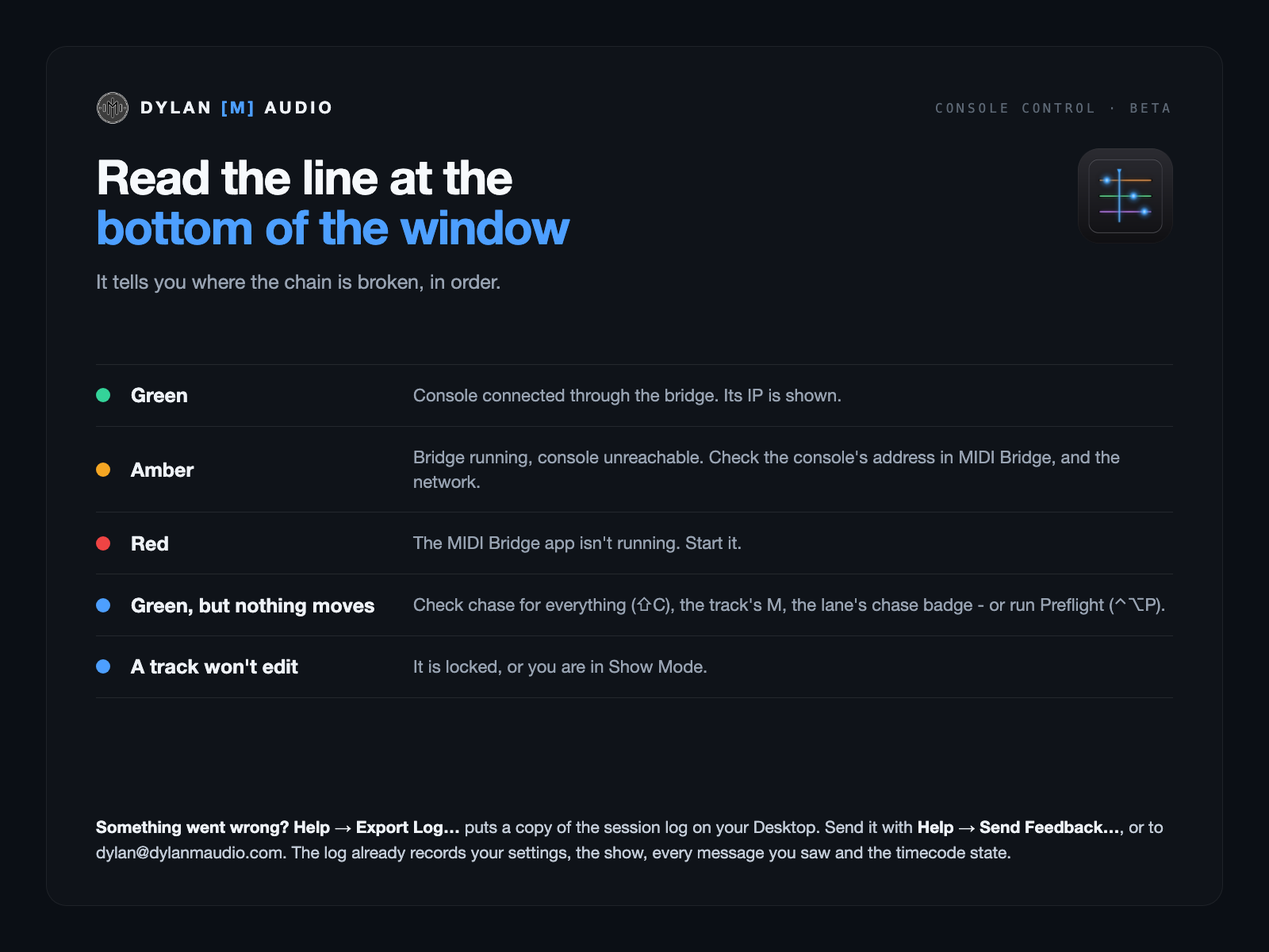
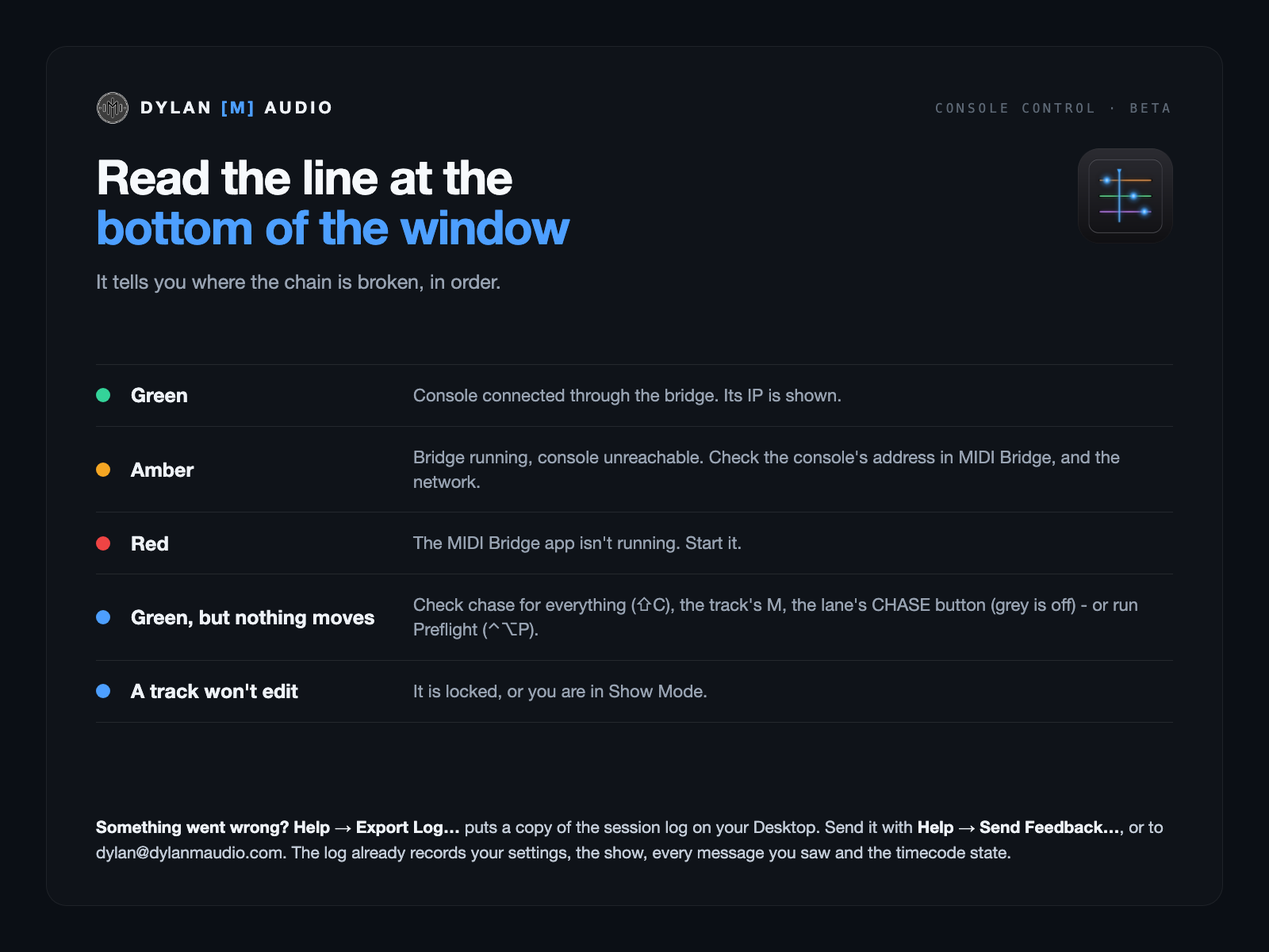
/cc-beta at 0.3.12: what's new since 0.3.10, the 0.3.12 guides and the beta manifest
0.3.12 went to the testers on 29 Oct (the apps repo, d2e2bb33).

Changed region(s): [[0.0625, 0.6167, 0.3125, 0.74], [0.3125, 0.6475, 0.5625, 0.74], [0.6875, 0.6167, 0.9062, 0.6475]]

diff --git a/cc-beta/index.html b/cc-beta/index.html
@@ -222,7 +222,7 @@
       <img src="/assets/console-control.png" alt="Console Control app icon" width="72" height="72" />
       <div>
         <h1>Console Control</h1>
-        <div class="p-badges"><span class="tag">Beta &middot; 0.3.11</span></div>
+        <div class="p-badges"><span class="tag">Beta &middot; 0.3.12</span></div>
       </div>
     </div>
     <p class="p-tagline">Complete console automation, locked to timecode. Free to try until 30 November 2026.</p>
@@ -247,12 +247,12 @@
     <ul class="feature-list"><li><span class="ck"><svg viewBox="0 0 24 24" stroke-linecap="round" stroke-linejoin="round"><path d="M20 6 9 17l-5-5"/></svg></span><span>Fader, mute, Scene, Action and send cues on a timeline, locked to LTC or MTC</span></li><li><span class="ck"><svg viewBox="0 0 24 24" stroke-linecap="round" stroke-linejoin="round"><path d="M20 6 9 17l-5-5"/></svg></span><span>Import a live recording and every track lands at its real timecode — a whole set in under a minute</span></li><li><span class="ck"><svg viewBox="0 0 24 24" stroke-linecap="round" stroke-linejoin="round"><path d="M20 6 9 17l-5-5"/></svg></span><span>A tempo map from your click in seconds; snap cues to the beat</span></li><li><span class="ck"><svg viewBox="0 0 24 24" stroke-linecap="round" stroke-linejoin="round"><path d="M20 6 9 17l-5-5"/></svg></span><span>Your console's own Scene names, channel names and colours</span></li><li><span class="ck"><svg viewBox="0 0 24 24" stroke-linecap="round" stroke-linejoin="round"><path d="M20 6 9 17l-5-5"/></svg></span><span>Chase: locate anywhere and the console conforms</span></li><li><span class="ck"><svg viewBox="0 0 24 24" stroke-linecap="round" stroke-linejoin="round"><path d="M20 6 9 17l-5-5"/></svg></span><span>Preflight before doors, Show Mode during, Panic always</span></li><li><span class="ck"><svg viewBox="0 0 24 24" stroke-linecap="round" stroke-linejoin="round"><path d="M20 6 9 17l-5-5"/></svg></span><span>Works with MIDI Bridge, Time Code Tool and your Stream Deck</span></li></ul>
     <div class="side" style="margin-top:24px;">
       <div class="h">// The beta</div>
-      <div class="srow"><span class="k">Version</span><span class="v">0.3.11 BETA</span></div><div class="srow"><span class="k">Beta until</span><span class="v">30 November 2026</span></div><div class="srow"><span class="k">Price</span><span class="v">Free during the beta</span></div><div class="srow"><span class="k">Platform</span><span class="v">macOS 11+</span></div><div class="srow"><span class="k">Chip</span><span class="v">Apple Silicon &amp; Intel</span></div><div class="srow"><span class="k">Console</span><span class="v">dLive &middot; SQ &middot; Wing &middot; DiGiCo SD</span></div><div class="srow"><span class="k">Needs</span><span class="v">MIDI Bridge 1.5 beta, a second download with this one</span></div><div class="srow"><span class="k">Stream Deck</span><span class="v"><a href="/products/companion/" style="color:var(--blue)">via Companion</a></span></div>
+      <div class="srow"><span class="k">Version</span><span class="v">0.3.12 BETA</span></div><div class="srow"><span class="k">Beta until</span><span class="v">30 November 2026</span></div><div class="srow"><span class="k">Price</span><span class="v">Free during the beta</span></div><div class="srow"><span class="k">Platform</span><span class="v">macOS 11+</span></div><div class="srow"><span class="k">Chip</span><span class="v">Apple Silicon &amp; Intel</span></div><div class="srow"><span class="k">Console</span><span class="v">dLive &middot; SQ &middot; Wing &middot; DiGiCo SD</span></div><div class="srow"><span class="k">Needs</span><span class="v">MIDI Bridge 1.5 beta, a second download with this one</span></div><div class="srow"><span class="k">Stream Deck</span><span class="v"><a href="/products/companion/" style="color:var(--blue)">via Companion</a></span></div>
     </div>
   </div>
 </div></section>
 
-<section class="lf"><div class="wrap"><div class="lf-block" id="new"><div class="kicker p-sec-k"><span class="tick">//</span>&nbsp; New in 0.3.11</div><p>Since 0.3.10, the build the testers had before. The full list comes with the download.</p><div class="lf-item"><h3>Four consoles: the dLive, the SQ, the Wing and the DiGiCo SD.</h3><p>Choose the console in Settings &rarr; MIDI &rarr; Console, with the MIDI Bridge 1.5 beta (a second download with this one) set to the same one. On the SQ: faders, mutes, sends and scene recalls, with names and colours from Sync from Console. On the Wing: faders, mutes, sends to buses and Scene recalls. On the SD: faders, mutes, sends to auxes, snapshots recalled by the number on the desk&rsquo;s screen, and a Macros track that fires the desk&rsquo;s macros by name. The Reference Manual has the details for each.</p></div><div class="lf-item"><h3>Pan, filter and EQ lanes on the Wing and the SD.</h3><p>Right-click a Wing channel or an SD input &rarr; <b>Add pan, filter and EQ lanes&hellip;</b> for pan, HPF and LPF (in / out and frequency) and each EQ band&rsquo;s gain, frequency and Q, in the console&rsquo;s own ranges.</p></div><div class="lf-item"><h3>Stop no longer replays the show.</h3><p>With &ldquo;Stop returns to where play started&rdquo; on, a Stop could send every cue from the start of the show at once. Opening a menu in Show Mode no longer holds the cues back, and Panic and Stop stay stopped with &ldquo;Start on valid timecode when stopped&rdquo; on.</p></div><div class="lf-item"><h3>LTC chase picks the code up again.</h3><p>When the timecode stops for a moment or jumps, chase catches it within about a second of its return, instead of waiting for Stop and Play.</p></div><div class="lf-item"><h3>And smaller fixes.</h3><p><kbd>⌘A</kbd> works in text fields; a decimal Scene number is refused instead of rounded; a conform sends each mute once; a cue inserted from a dialog lands where you opened it.</p></div></div><div class="lf-block" id="start"><div class="kicker p-sec-k"><span class="tick">//</span>&nbsp; Your first session, in eight steps</div><p>Twenty minutes at the desk, or at home with a show recording. Nothing reaches the console until the bridge line is green.</p><ol class="lf-steps"><li><h3>Start MIDI Bridge</h3><p>The 1.5 beta, a second download with this one, set to your console. Console Control talks to the console through it. Wait for the green line at the bottom of the window.</p></li><li><h3>Choose the console</h3><p>Settings (<kbd>⌘,</kbd>) &rarr; MIDI &rarr; Console: the desk MIDI Bridge is set to. On a dLive, match the base MIDI channel too &mdash; the same number as Utility &rarr; Control &rarr; MIDI on the console.</p></li><li><h3>Add your tracks</h3><p><b>+ Track</b>, pick a type and a range. &ldquo;1-16&rdquo; makes sixteen input tracks in one step.</p></li><li><h3>Bring in the console&rsquo;s names</h3><p>Sync from Console (<kbd>⌃⌥R</kbd>) for channel names and colours, straight from the desk. File &rarr; Import Console Show File for a dLive&rsquo;s Scene names and Actions.</p></li><li><h3>Import a show recording</h3><p><kbd>⌘I</kbd>. With an LTC track present, every song is placed at its own timecode and outlined as a region.</p></li><li><h3>Place cues</h3><p>Select a track, then <kbd>U</kbd>, <kbd>I</kbd> or <kbd>V</kbd> for fader cues, <kbd>M</kbd> for mute, <kbd>S</kbd> for a Scene, <kbd>A</kbd> for an Action.</p></li><li><h3>Run Preflight</h3><p><kbd>⌃⌥P</kbd> checks the bridge, the base channel, chase and routing, and says exactly what is wrong.</p></li><li><h3>Arm SYNC, press play</h3><p>The timeline waits for timecode and follows it when it locks. Then <kbd>⌘⇧L</kbd> for Show Mode.</p></li></ol></div><div class="lf-block"><div class="kicker p-sec-k"><span class="tick">//</span>&nbsp; Four ideas that explain everything else</div><p>If the app ever surprises you, it is almost always one of these.</p><div class="lf-item"><h3>Time, not bars &mdash; cues sit at a timecode position.</h3><p>Live shows drift, drop the click and vamp. Tempo exists only for beat snapping and the grid &mdash; the ruler is always time.</p></div><div class="lf-item"><h3>Chase &mdash; move the playhead and the desk follows.</h3><p>Scrub, locate or play: every lane&rsquo;s value at that position is worked out and sent. Chase can be switched off for everything (<kbd>⇧C</kbd>) or per lane (<kbd>C</kbd>).</p></div><div class="lf-item"><h3>Fired vs pending &mdash; plain text was sent, a dot was not.</h3><p>A dot beside a readout means &ldquo;the console should be here, but it hasn&rsquo;t been sent&rdquo;. Conform Console sends everything pending in one pass.</p></div><div class="lf-item"><h3>One console path &mdash; everything goes through MIDI Bridge.</h3><p>Console Control never opens its own connection to the desk, so your DAW, Companion and the other apps keep working beside it.</p></div></div><div class="lf-block"><div class="kicker p-sec-k"><span class="tick">//</span>&nbsp; SYNC arms, play latches, stop disarms</div><p>The button beside Record. Always this way round &mdash; a show never latches on its own when it opens.</p><div class="states"><div class="state"><span class="dot" style="background:var(--dim)"></span><span class="l">Dimmed</span><span class="d">Sync off. Internal clock, for programming and loop playback.</span></div><div class="state"><span class="dot" style="background:#6f93b8"></span><span class="l">Lit steel-blue</span><span class="d">Armed. Press play to latch.</span></div><div class="state"><span class="dot" style="background:var(--amber)"></span><span class="l">Pulsing amber</span><span class="d">Play pressed, awaiting timecode.</span></div><div class="state"><span class="dot" style="background:var(--green)"></span><span class="l">Green</span><span class="d">Locked to incoming timecode. Locate and scrub belong to the source.</span></div><div class="state"><span class="dot" style="background:var(--amber)"></span><span class="l">Steady amber</span><span class="d">Freewheeling &mdash; the signal dropped and the timeline is coasting.</span></div></div><p><b>Right-click SYNC</b> for the source (LTC or MTC), the LTC input channel, the MTC port, freewheel time, drift tolerance and offset. <b>Still pulsing while code plays?</b> It is listening to the wrong input.</p></div><div class="lf-block" id="keys"><div class="kicker p-sec-k"><span class="tick">//</span>&nbsp; The keys worth learning first</div><p>Every shortcut can be changed in Help &rarr; Keyboard Shortcuts (<kbd>⌃⌥K</kbd>): click one and press the keys you want. Hover over any button to see its key. All of them are in the <a href="/guides/console-control-quick-reference.pdf" target="_blank" rel="noopener">Quick Reference</a>.</p><div class="keys"><div class="key"><div class="c"><kbd>Space</kbd></div><div class="a">Play / stop</div></div><div class="key"><div class="c"><kbd>⌘⇧Esc</kbd></div><div class="a">Panic</div></div><div class="key"><div class="c"><kbd>⌘⇧L</kbd></div><div class="a">Show Mode</div></div><div class="key"><div class="c"><kbd>⌃⌥C</kbd></div><div class="a">Conform Console</div></div><div class="key"><div class="c"><kbd>⌃⌥P</kbd></div><div class="a">Preflight</div></div><div class="key"><div class="c"><kbd>⌃⌥R</kbd></div><div class="a">Sync from Console</div></div><div class="key"><div class="c"><kbd>U</kbd><kbd>I</kbd><kbd>V</kbd></div><div class="a">Fader cue: unity / &minus;&infin; / a value</div></div><div class="key"><div class="c"><kbd>M</kbd><kbd>⇧M</kbd></div><div class="a">Mute / unmute cue</div></div><div class="key"><div class="c"><kbd>S</kbd><kbd>A</kbd></div><div class="a">Scene / Action cue</div></div><div class="key"><div class="c"><kbd>C</kbd><kbd>⇧C</kbd></div><div class="a">Chase this lane / everything</div></div><div class="key"><div class="c"><kbd>[</kbd><kbd>]</kbd></div><div class="a">Previous / next marker, region or clip edge</div></div><div class="key"><div class="c"><kbd>1</kbd><kbd>…</kbd><kbd>0</kbd></div><div class="a">Regions 1 to 10</div></div><div class="key"><div class="c"><kbd>T</kbd></div><div class="a">Go to a timecode</div></div><div class="key"><div class="c"><kbd>⌥M</kbd><kbd>⌥R</kbd></div><div class="a">Marker at playhead / region from selection</div></div><div class="key"><div class="c"><kbd>⌥←</kbd><kbd>⌥→</kbd></div><div class="a">Nudge the selection</div></div><div class="key"><div class="c"><kbd>⌃⌥Space</kbd></div><div class="a">Record armed reference tracks</div></div><div class="key"><div class="c"><kbd>⌃⌥X</kbd></div><div class="a">Mixer</div></div><div class="key"><div class="c"><kbd>⌘Z</kbd><kbd>⌘⇧Z</kbd></div><div class="a">Undo / redo</div></div></div></div><div class="lf-block"><div class="kicker p-sec-k"><span class="tick">//</span>&nbsp; Built for show day</div><p>Four controls to know before doors.</p><div class="lf-item"><h3>Preflight &mdash; <kbd>⌃⌥P</kbd></h3><p>Flags problems before the show: bridge and console link, base-channel mismatches, chase switched off, send lanes the console can&rsquo;t route.</p></div><div class="lf-item"><h3>Show Mode &mdash; <kbd>⌘⇧L</kbd></h3><p>Locks editing and undo. Huge timecode, sync, chase, bridge health and live per-track readouts &mdash; and what&rsquo;s coming next, with countdowns. Asks before it enters and before it leaves.</p></div><div class="lf-item"><h3>Conform Console &mdash; <kbd>⌃⌥C</kbd></h3><p>A one-shot chase you can use at any moment. Play always conforms first, so the console enters playback in the right state.</p></div><div class="lf-item"><h3>Panic &mdash; <kbd>⌘⇧Esc</kbd></h3><p>Always available, even with everything else locked.</p></div></div><div class="lf-block" id="stream-deck"><div class="kicker p-sec-k"><span class="tick">//</span>&nbsp; On your Stream Deck</div><p>Beta testers get Stream Deck control too, through Bitfocus Companion.</p><div class="lf-item"><h3>Every shortcut is a key.</h3><p>Through the free <a href="/products/companion/">Companion module</a>, Console Control&rsquo;s commands are Companion actions &mdash; play, Conform, Show Mode, Panic, cue programming &mdash; with sync lock and chase shown on the keys. A Stream Deck is the nicest way to press them; Companion&rsquo;s web buttons on a phone or tablet work too.</p></div><div class="lf-item"><h3>Set it up once.</h3><p>Install Companion on the same Mac and add the dylanmaudio module &mdash; the steps are on the <a href="/products/companion/#install">Companion page</a>. Console Control appears beside your other dylanmaudio apps.</p></div><div class="lf-item"><h3>You decide what it can touch.</h3><p>Settings &rarr; Companion: allow Companion control or switch it off, and lock the show-critical controls &mdash; Stop, Record, Conform and Show Mode are refused while locked. Panic always works.</p></div></div><div class="lf-block"><div class="kicker p-sec-k"><span class="tick">//</span>&nbsp; If something is wrong</div><p>Read the line at the bottom of the window. It tells you where the chain is broken, in order.</p><div class="states"><div class="state"><span class="dot" style="background:var(--green)"></span><span class="l">Green</span><span class="d">Console connected through the bridge. Its IP is shown.</span></div><div class="state"><span class="dot" style="background:var(--amber)"></span><span class="l">Amber</span><span class="d">Bridge running, console unreachable. Check the console&rsquo;s address in MIDI Bridge, and the network.</span></div><div class="state"><span class="dot" style="background:var(--red)"></span><span class="l">Red</span><span class="d">The MIDI Bridge app isn&rsquo;t running. Start it.</span></div><div class="state"><span class="dot" style="background:var(--blue)"></span><span class="l">Green, but nothing moves</span><span class="d">Check chase for everything (<kbd>⇧C</kbd>), the track&rsquo;s M, the lane&rsquo;s chase badge &mdash; or run Preflight (<kbd>⌃⌥P</kbd>).</span></div><div class="state"><span class="dot" style="background:var(--blue)"></span><span class="l">A track won&rsquo;t edit</span><span class="d">It is locked, or you are in Show Mode.</span></div></div><p><b>Something went wrong?</b> <b>Help &rarr; Export Log&hellip;</b> puts a copy of the session log on your Desktop. Send it with <b>Help &rarr; Send Feedback&hellip;</b>, or to <a href="mailto:dylan@dylanmaudio.com">dylan@dylanmaudio.com</a>. The log already records your settings, the show, every message you saw and the timecode state.</p></div><div class="lf-block" id="beta"><div class="kicker p-sec-k"><span class="tick">//</span>&nbsp; The beta, until 30 November 2026</div><p>This is 0.3.11 BETA: a full-featured beta. Nothing is switched off, and nothing is locked away afterwards.</p><div class="lf-item"><h3>Until the date, everything works.</h3><p>The window shows the end date from first launch, and for the last two weeks it reminds you each time it opens.</p></div><div class="lf-item"><h3>After the date, it opens and edits but sends nothing.</h3><p>Your shows stay yours. Console output stops until you install a newer beta.</p></div><div class="lf-item"><h3>A show is never interrupted.</h3><p>The date is only checked when the app starts, so a show that runs past midnight carries on.</p></div><div class="lf-item"><h3>You need MIDI Bridge and a current Mac.</h3><p>The MIDI Bridge 1.5 beta, a second download with this one. macOS 11 or later, Apple Silicon or Intel. Companion and a Stream Deck if you want keys. No analytics, no telemetry.</p></div></div></div></section>
+<section class="lf"><div class="wrap"><div class="lf-block" id="new"><div class="kicker p-sec-k"><span class="tick">//</span>&nbsp; New since 0.3.10</div><p>0.3.11 (28 October) added the SQ, the Wing and the DiGiCo SD; 0.3.12 (29 October) fixes what a tester found. The full list comes with the download.</p><div class="lf-item"><h3>A new timecode input applies at once.</h3><p>Change the LTC input or the MTC port in Settings &rarr; Sync and a chase already waiting for code listens to the new one straight away, instead of after Stop and Play. (0.3.12)</p></div><div class="lf-item"><h3>An armed reference track meters its input.</h3><p>Its meter shows what&rsquo;s coming in, with In lit red, so you can check the level before you record. Before, it showed nothing until there was a take. (0.3.12)</p></div><div class="lf-item"><h3>Each lane&rsquo;s CHASE is a button.</h3><p>Green when the lane chases, grey when it doesn&rsquo;t. Switched off, it used to read &ldquo;&mdash;&rdquo;, which was hard to find to switch back on. (0.3.12)</p></div><div class="lf-item"><h3>Four consoles: the dLive, the SQ, the Wing and the DiGiCo SD.</h3><p>Choose the console in Settings &rarr; MIDI &rarr; Console, with the MIDI Bridge 1.5 beta (a second download with this one) set to the same one. On the SQ: faders, mutes, sends and scene recalls, with names and colours from Sync from Console. On the Wing: faders, mutes, sends to buses and Scene recalls. On the SD: faders, mutes, sends to auxes, snapshots recalled by the number on the desk&rsquo;s screen, and a Macros track that fires the desk&rsquo;s macros by name. The Reference Manual has the details for each.</p></div><div class="lf-item"><h3>Pan, filter and EQ lanes on the Wing and the SD.</h3><p>Right-click a Wing channel or an SD input &rarr; <b>Add pan, filter and EQ lanes&hellip;</b> for pan, HPF and LPF (in / out and frequency) and each EQ band&rsquo;s gain, frequency and Q, in the console&rsquo;s own ranges.</p></div><div class="lf-item"><h3>Stop no longer replays the show.</h3><p>With &ldquo;Stop returns to where play started&rdquo; on, a Stop could send every cue from the start of the show at once. Opening a menu in Show Mode no longer holds the cues back, and Panic and Stop stay stopped with &ldquo;Start on valid timecode when stopped&rdquo; on.</p></div><div class="lf-item"><h3>LTC chase picks the code up again.</h3><p>When the timecode stops for a moment or jumps, chase catches it within about a second of its return, instead of waiting for Stop and Play.</p></div><div class="lf-item"><h3>And smaller fixes.</h3><p><kbd>⌘A</kbd> works in text fields; a decimal Scene number is refused instead of rounded; a conform sends each mute once; a cue inserted from a dialog lands where you opened it.</p></div></div><div class="lf-block" id="start"><div class="kicker p-sec-k"><span class="tick">//</span>&nbsp; Your first session, in eight steps</div><p>Twenty minutes at the desk, or at home with a show recording. Nothing reaches the console until the bridge line is green.</p><ol class="lf-steps"><li><h3>Start MIDI Bridge</h3><p>The 1.5 beta, a second download with this one, set to your console. Console Control talks to the console through it. Wait for the green line at the bottom of the window.</p></li><li><h3>Choose the console</h3><p>Settings (<kbd>⌘,</kbd>) &rarr; MIDI &rarr; Console: the desk MIDI Bridge is set to. On a dLive, match the base MIDI channel too &mdash; the same number as Utility &rarr; Control &rarr; MIDI on the console.</p></li><li><h3>Add your tracks</h3><p><b>+ Track</b>, pick a type and a range. &ldquo;1-16&rdquo; makes sixteen input tracks in one step.</p></li><li><h3>Bring in the console&rsquo;s names</h3><p>Sync from Console (<kbd>⌃⌥R</kbd>) for channel names and colours, straight from the desk. File &rarr; Import Console Show File for a dLive&rsquo;s Scene names and Actions.</p></li><li><h3>Import a show recording</h3><p><kbd>⌘I</kbd>. With an LTC track present, every song is placed at its own timecode and outlined as a region.</p></li><li><h3>Place cues</h3><p>Select a track, then <kbd>U</kbd>, <kbd>I</kbd> or <kbd>V</kbd> for fader cues, <kbd>M</kbd> for mute, <kbd>S</kbd> for a Scene, <kbd>A</kbd> for an Action.</p></li><li><h3>Run Preflight</h3><p><kbd>⌃⌥P</kbd> checks the bridge, the base channel, chase and routing, and says exactly what is wrong.</p></li><li><h3>Arm SYNC, press play</h3><p>The timeline waits for timecode and follows it when it locks. Then <kbd>⌘⇧L</kbd> for Show Mode.</p></li></ol></div><div class="lf-block"><div class="kicker p-sec-k"><span class="tick">//</span>&nbsp; Four ideas that explain everything else</div><p>If the app ever surprises you, it is almost always one of these.</p><div class="lf-item"><h3>Time, not bars &mdash; cues sit at a timecode position.</h3><p>Live shows drift, drop the click and vamp. Tempo exists only for beat snapping and the grid &mdash; the ruler is always time.</p></div><div class="lf-item"><h3>Chase &mdash; move the playhead and the desk follows.</h3><p>Scrub, locate or play: every lane&rsquo;s value at that position is worked out and sent. Chase can be switched off for everything (<kbd>⇧C</kbd>) or per lane (<kbd>C</kbd>).</p></div><div class="lf-item"><h3>Fired vs pending &mdash; plain text was sent, a dot was not.</h3><p>A dot beside a readout means &ldquo;the console should be here, but it hasn&rsquo;t been sent&rdquo;. Conform Console sends everything pending in one pass.</p></div><div class="lf-item"><h3>One console path &mdash; everything goes through MIDI Bridge.</h3><p>Console Control never opens its own connection to the desk, so your DAW, Companion and the other apps keep working beside it.</p></div></div><div class="lf-block"><div class="kicker p-sec-k"><span class="tick">//</span>&nbsp; SYNC arms, play latches, stop disarms</div><p>The button beside Record. Always this way round &mdash; a show never latches on its own when it opens.</p><div class="states"><div class="state"><span class="dot" style="background:var(--dim)"></span><span class="l">Dimmed</span><span class="d">Sync off. Internal clock, for programming and loop playback.</span></div><div class="state"><span class="dot" style="background:#6f93b8"></span><span class="l">Lit steel-blue</span><span class="d">Armed. Press play to latch.</span></div><div class="state"><span class="dot" style="background:var(--amber)"></span><span class="l">Pulsing amber</span><span class="d">Play pressed, awaiting timecode.</span></div><div class="state"><span class="dot" style="background:var(--green)"></span><span class="l">Green</span><span class="d">Locked to incoming timecode. Locate and scrub belong to the source.</span></div><div class="state"><span class="dot" style="background:var(--amber)"></span><span class="l">Steady amber</span><span class="d">Freewheeling &mdash; the signal dropped and the timeline is coasting.</span></div></div><p><b>Right-click SYNC</b> for the source (LTC or MTC), the LTC input channel, the MTC port, freewheel time, drift tolerance and offset. <b>Still pulsing while code plays?</b> It is listening to the wrong input.</p></div><div class="lf-block" id="keys"><div class="kicker p-sec-k"><span class="tick">//</span>&nbsp; The keys worth learning first</div><p>Every shortcut can be changed in Help &rarr; Keyboard Shortcuts (<kbd>⌃⌥K</kbd>): click one and press the keys you want. Hover over any button to see its key. All of them are in the <a href="/guides/console-control-quick-reference.pdf" target="_blank" rel="noopener">Quick Reference</a>.</p><div class="keys"><div class="key"><div class="c"><kbd>Space</kbd></div><div class="a">Play / stop</div></div><div class="key"><div class="c"><kbd>⌘⇧Esc</kbd></div><div class="a">Panic</div></div><div class="key"><div class="c"><kbd>⌘⇧L</kbd></div><div class="a">Show Mode</div></div><div class="key"><div class="c"><kbd>⌃⌥C</kbd></div><div class="a">Conform Console</div></div><div class="key"><div class="c"><kbd>⌃⌥P</kbd></div><div class="a">Preflight</div></div><div class="key"><div class="c"><kbd>⌃⌥R</kbd></div><div class="a">Sync from Console</div></div><div class="key"><div class="c"><kbd>U</kbd><kbd>I</kbd><kbd>V</kbd></div><div class="a">Fader cue: unity / &minus;&infin; / a value</div></div><div class="key"><div class="c"><kbd>M</kbd><kbd>⇧M</kbd></div><div class="a">Mute / unmute cue</div></div><div class="key"><div class="c"><kbd>S</kbd><kbd>A</kbd></div><div class="a">Scene / Action cue</div></div><div class="key"><div class="c"><kbd>C</kbd><kbd>⇧C</kbd></div><div class="a">Chase this lane / everything</div></div><div class="key"><div class="c"><kbd>[</kbd><kbd>]</kbd></div><div class="a">Previous / next marker, region or clip edge</div></div><div class="key"><div class="c"><kbd>1</kbd><kbd>…</kbd><kbd>0</kbd></div><div class="a">Regions 1 to 10</div></div><div class="key"><div class="c"><kbd>T</kbd></div><div class="a">Go to a timecode</div></div><div class="key"><div class="c"><kbd>⌥M</kbd><kbd>⌥R</kbd></div><div class="a">Marker at playhead / region from selection</div></div><div class="key"><div class="c"><kbd>⌥←</kbd><kbd>⌥→</kbd></div><div class="a">Nudge the selection</div></div><div class="key"><div class="c"><kbd>⌃⌥Space</kbd></div><div class="a">Record armed reference tracks</div></div><div class="key"><div class="c"><kbd>⌃⌥X</kbd></div><div class="a">Mixer</div></div><div class="key"><div class="c"><kbd>⌘Z</kbd><kbd>⌘⇧Z</kbd></div><div class="a">Undo / redo</div></div></div></div><div class="lf-block"><div class="kicker p-sec-k"><span class="tick">//</span>&nbsp; Built for show day</div><p>Four controls to know before doors.</p><div class="lf-item"><h3>Preflight &mdash; <kbd>⌃⌥P</kbd></h3><p>Flags problems before the show: bridge and console link, base-channel mismatches, chase switched off, send lanes the console can&rsquo;t route.</p></div><div class="lf-item"><h3>Show Mode &mdash; <kbd>⌘⇧L</kbd></h3><p>Locks editing and undo. Huge timecode, sync, chase, bridge health and live per-track readouts &mdash; and what&rsquo;s coming next, with countdowns. Asks before it enters and before it leaves.</p></div><div class="lf-item"><h3>Conform Console &mdash; <kbd>⌃⌥C</kbd></h3><p>A one-shot chase you can use at any moment. Play always conforms first, so the console enters playback in the right state.</p></div><div class="lf-item"><h3>Panic &mdash; <kbd>⌘⇧Esc</kbd></h3><p>Always available, even with everything else locked.</p></div></div><div class="lf-block" id="stream-deck"><div class="kicker p-sec-k"><span class="tick">//</span>&nbsp; On your Stream Deck</div><p>Beta testers get Stream Deck control too, through Bitfocus Companion.</p><div class="lf-item"><h3>Every shortcut is a key.</h3><p>Through the free <a href="/products/companion/">Companion module</a>, Console Control&rsquo;s commands are Companion actions &mdash; play, Conform, Show Mode, Panic, cue programming &mdash; with sync lock and chase shown on the keys. A Stream Deck is the nicest way to press them; Companion&rsquo;s web buttons on a phone or tablet work too.</p></div><div class="lf-item"><h3>Set it up once.</h3><p>Install Companion on the same Mac and add the dylanmaudio module &mdash; the steps are on the <a href="/products/companion/#install">Companion page</a>. Console Control appears beside your other dylanmaudio apps.</p></div><div class="lf-item"><h3>You decide what it can touch.</h3><p>Settings &rarr; Companion: allow Companion control or switch it off, and lock the show-critical controls &mdash; Stop, Record, Conform and Show Mode are refused while locked. Panic always works.</p></div></div><div class="lf-block"><div class="kicker p-sec-k"><span class="tick">//</span>&nbsp; If something is wrong</div><p>Read the line at the bottom of the window. It tells you where the chain is broken, in order.</p><div class="states"><div class="state"><span class="dot" style="background:var(--green)"></span><span class="l">Green</span><span class="d">Console connected through the bridge. Its IP is shown.</span></div><div class="state"><span class="dot" style="background:var(--amber)"></span><span class="l">Amber</span><span class="d">Bridge running, console unreachable. Check the console&rsquo;s address in MIDI Bridge, and the network.</span></div><div class="state"><span class="dot" style="background:var(--red)"></span><span class="l">Red</span><span class="d">The MIDI Bridge app isn&rsquo;t running. Start it.</span></div><div class="state"><span class="dot" style="background:var(--blue)"></span><span class="l">Green, but nothing moves</span><span class="d">Check chase for everything (<kbd>⇧C</kbd>), the track&rsquo;s M, the lane&rsquo;s CHASE button (grey is off) &mdash; or run Preflight (<kbd>⌃⌥P</kbd>).</span></div><div class="state"><span class="dot" style="background:var(--blue)"></span><span class="l">A track won&rsquo;t edit</span><span class="d">It is locked, or you are in Show Mode.</span></div></div><p><b>Something went wrong?</b> <b>Help &rarr; Export Log&hellip;</b> puts a copy of the session log on your Desktop. Send it with <b>Help &rarr; Send Feedback&hellip;</b>, or to <a href="mailto:dylan@dylanmaudio.com">dylan@dylanmaudio.com</a>. The log already records your settings, the show, every message you saw and the timecode state.</p></div><div class="lf-block" id="beta"><div class="kicker p-sec-k"><span class="tick">//</span>&nbsp; The beta, until 30 November 2026</div><p>This is 0.3.12 BETA: a full-featured beta. Nothing is switched off, and nothing is locked away afterwards.</p><div class="lf-item"><h3>Until the date, everything works.</h3><p>The window shows the end date from first launch, and for the last two weeks it reminds you each time it opens.</p></div><div class="lf-item"><h3>After the date, it opens and edits but sends nothing.</h3><p>Your shows stay yours. Console output stops until you install a newer beta.</p></div><div class="lf-item"><h3>A show is never interrupted.</h3><p>The date is only checked when the app starts, so a show that runs past midnight carries on.</p></div><div class="lf-item"><h3>You need MIDI Bridge and a current Mac.</h3><p>The MIDI Bridge 1.5 beta, a second download with this one. macOS 11 or later, Apple Silicon or Intel. Companion and a Stream Deck if you want keys. No analytics, no telemetry.</p></div></div></div></section>
 
 <section class="p-band"><div class="wrap"><div class="kicker" style="display:inline-block;">
   <span class="tick">//</span>&nbsp; Console Control beta</div>

diff --git a/build/build_beta.py b/build/build_beta.py
@@ -34,7 +34,7 @@ import build_products as P
 
 SLUG = "cc-beta"
 PRODUCT = C.PRODUCTS["console-control"]
-VERSION = "0.3.11 BETA"          # with the MIDI Bridge 1.5.0 beta, a second file on the store page (ROADMAP's brief, 28 Oct 2026)
+VERSION = "0.3.12 BETA"          # with the MIDI Bridge 1.5.0 beta, a second file on the store page (0.3.12 to testers 29 Oct 2026)
 BETA_UNTIL = "30 November 2026"   # from 0.3.7; 0.3.2 and earlier stop sending on 31 October
 DOWNLOAD = C.CHECKOUT["console-control-beta"]
 # The carousel: the beta product's own store set, in assets/cards/console-control-beta/,
@@ -48,8 +48,18 @@ QUICK_REF = "/guides/console-control-quick-reference.pdf"
 # ---------------------------------------------------------------- the guide
 # (heading, detail) - detail may carry HTML.
 
-NEW = [  # 0.3.11 against 0.3.10, the build the testers had before: its CHANGELOG, in ROADMAP's beta
-         # brief's selection (28 Oct). Nothing from "Not yet in this beta"; no 1.0 date.
+NEW = [  # Since 0.3.10, the testers' build until 28 Oct: 0.3.12's CHANGELOG (29 Oct, a tester's report)
+         # first, then 0.3.11's in ROADMAP's beta brief's selection (28 Oct). Nothing from "Not yet in
+         # this beta"; no 1.0 date.
+    ("A new timecode input applies at once.",
+     "Change the LTC input or the MTC port in Settings &rarr; Sync and a chase already waiting for code listens "
+     "to the new one straight away, instead of after Stop and Play. (0.3.12)"),
+    ("An armed reference track meters its input.",
+     "Its meter shows what&rsquo;s coming in, with In lit red, so you can check the level before you record. "
+     "Before, it showed nothing until there was a take. (0.3.12)"),
+    ("Each lane&rsquo;s CHASE is a button.",
+     "Green when the lane chases, grey when it doesn&rsquo;t. Switched off, it used to read &ldquo;&mdash;&rdquo;, "
+     "which was hard to find to switch back on. (0.3.12)"),
     ("Four consoles: the dLive, the SQ, the Wing and the DiGiCo SD.",
      "Choose the console in Settings &rarr; MIDI &rarr; Console, with the MIDI Bridge 1.5 beta (a second download with this one) set "
      "to the same one. On the SQ: faders, mutes, sends and scene recalls, with names and colours from Sync from "
@@ -178,7 +188,7 @@ TROUBLE = [
                               "Bridge, and the network."),
     ("var(--red)", "Red", "The MIDI Bridge app isn&rsquo;t running. Start it."),
     ("var(--blue)", "Green, but nothing moves",
-     "Check chase for everything (<kbd>⇧C</kbd>), the track&rsquo;s M, the lane&rsquo;s chase badge &mdash; or run "
+     "Check chase for everything (<kbd>⇧C</kbd>), the track&rsquo;s M, the lane&rsquo;s CHASE button (grey is off) &mdash; or run "
      "Preflight (<kbd>⌃⌥P</kbd>)."),
     ("var(--blue)", "A track won&rsquo;t edit", "It is locked, or you are in Show Mode."),
 ]
@@ -279,8 +289,9 @@ def build():
                           for k, v in glance)
 
     guide = "".join([
-        block(kick(f"New in {VERSION.replace(' BETA', '')}")
-              + "<p>Since 0.3.10, the build the testers had before. The full list comes with the download.</p>"
+        block(kick("New since 0.3.10")
+              + "<p>0.3.11 (28 October) added the SQ, the Wing and the DiGiCo SD; 0.3.12 (29 October) fixes "
+                "what a tester found. The full list comes with the download.</p>"
               + items(NEW), "new"),
         block(kick("Your first session, in eight steps")
               + "<p>Twenty minutes at the desk, or at home with a show recording. Nothing reaches the console "
